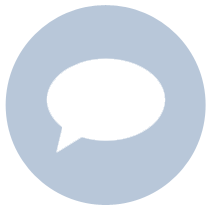
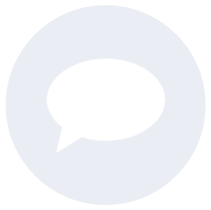
restyled the recent activity, changed opacity on the background image so it is more readable, added more/less with word counts (of 30)

diff --git a/modules/core/client/scss/core.scss b/modules/core/client/scss/core.scss
@@ -71,12 +71,14 @@ $font-family-sans-serif: "Open Sans", "Helvetica Neue", Helvetica, Arial, sans-s
 	background-repeat: no-repeat;
 	background-position: 106% -7%;
 	background-size: 30%;
+	background-opacity: 50%;
 }
 .watermark-news {
 	background-image: url('/modules/core/client/img/watermarks/eao-news.png');
 	background-repeat: no-repeat;
 	background-position: 106% -7%;
 	background-size: 30%;
+	background-opacity: 50%;
 }
 
 
@@ -1342,48 +1344,48 @@ table thead tr.ng-table-filters {
   color: #000;
 }
 
-.template .rTable {   	
-  display: table;   	
-  width: 100%; 
+.template .rTable {
+  display: table;
+  width: 100%;
   margin-top: 10px;
   font-size: 11px;
-} 
+}
 
-.template .rTableRow {   	
-  display: table-row; 
-} 
- 
-.template .rTableCell{   	
-  display: table-cell;   	
-  padding: 5px;   	
-  border-right: 1px solid #000; 
-  border-top: 1px solid #000; 
-} 
+.template .rTableRow {
+  display: table-row;
+}
 
-.template .rTableHead {   	
-  display: table-cell;   	
-  padding: 5px;   	
-  border-right: 1px solid #000; 
-  border-top: 1px solid #000; 
+.template .rTableCell{
+  display: table-cell;
+  padding: 5px;
+  border-right: 1px solid #000;
+  border-top: 1px solid #000;
+}
+
+.template .rTableHead {
+  display: table-cell;
+  padding: 5px;
+  border-right: 1px solid #000;
+  border-top: 1px solid #000;
   font-weight: bold;
   text-align: center;
   background-color: #D9D9D9;
   vertical-align: middle;
-} 
+}
 
-.template .rTableSubHead{   	
-  display: table-cell;   	
-  padding: 3px 10px; 
-  border-top: 1px solid #000; 
+.template .rTableSubHead{
+  display: table-cell;
+  padding: 3px 10px;
+  border-top: 1px solid #000;
   background-color: #F2F2F2;
 }
 
 .template .first-cell {
-  border-left: 1px solid #000; 
+  border-left: 1px solid #000;
 }
 
 .template .last-cell {
-  border-right: 1px solid #000; 
+  border-right: 1px solid #000;
 }
 
 .template .tbl-bottom {

diff --git a/modules/recent-activity/client/views/recent-activity.html b/modules/recent-activity/client/views/recent-activity.html
@@ -1,7 +1,15 @@
 <section class="panel panel-default" ng-repeat="activity in recentActs" ng-class="{'watermark-chat': activity.type === 'Public Comment Period', 'watermark-news': activity.type === 'News'}">
 	<div class='panel-body news-headline clickable' ui-sref="p.detail({projectid: projectlookup[activity.project].code })">
-		<h3>{{ activity.headline }}</h3>
-		<p><pre>{{ activity.content }}</pre></p>
+		<h5>{{ activity.headline }}</h5>
+		<p class="small" ng-if="!activity.showmore">
+			{{ limitWords(activity.content, 30) }}
+			<button class="btn btn-xs btn-link" ng-click="$event.stopPropagation();activity.showmore=!activity.showmore"> more</button>
+		</p>
+		<p class="small" ng-if="activity.showmore">
+			<button class="btn btn-xs btn-link" ng-click="$event.stopPropagation();activity.showmore=!activity.showmore"> less</button><br/>
+			{{ activity.content }}
+			<button class="btn btn-xs btn-link" ng-click="$event.stopPropagation();activity.showmore=!activity.showmore"> less</button>
+		</p>
 		<p class="small">{{ activity.dateAdded | date }}</p>
 		<p class="small">{{ activity.type }}</p>
 	</div>

diff --git a/modules/core/client/app/constants.js b/modules/core/client/app/constants.js
@@ -176,4 +176,19 @@ angular
 			return s;
 		};
 	})
+	.factory ('limitWords', function () {
+		return function (textToLimit, wordLimit) {
+			var finalText = "";
+			var text2 = textToLimit.replace(/\s+/g, ' ');
+			var text3 = text2.split(' ');
+			var numberOfWords = text3.length;
+			var i=0;
+			if (numberOfWords > wordLimit) {
+				for(i=0; i< wordLimit; i++)
+				finalText = finalText+" "+ text3[i]+" ";
+				return finalText+"...";
+			}
+			else return textToLimit;
+		};
+	})
 	.value('ProcessCodes', []);

diff --git a/modules/recent-activity/client/directives/recent-activity.directives.js b/modules/recent-activity/client/directives/recent-activity.directives.js
@@ -11,7 +11,8 @@ angular.module ('recent-activity')
 	return {
 		restrict: 'E',
 		templateUrl: 'modules/recent-activity/client/views/recent-activity.html',
-		controller: function($scope, RecentActivityModel, ProjectModel) {
+		controller: function($scope, RecentActivityModel, ProjectModel, limitWords) {
+			$scope.limitWords = limitWords;
 			RecentActivityModel.getRecentActivityActive().then( function(res) {
 				$scope.recentActs = res;
 			});
